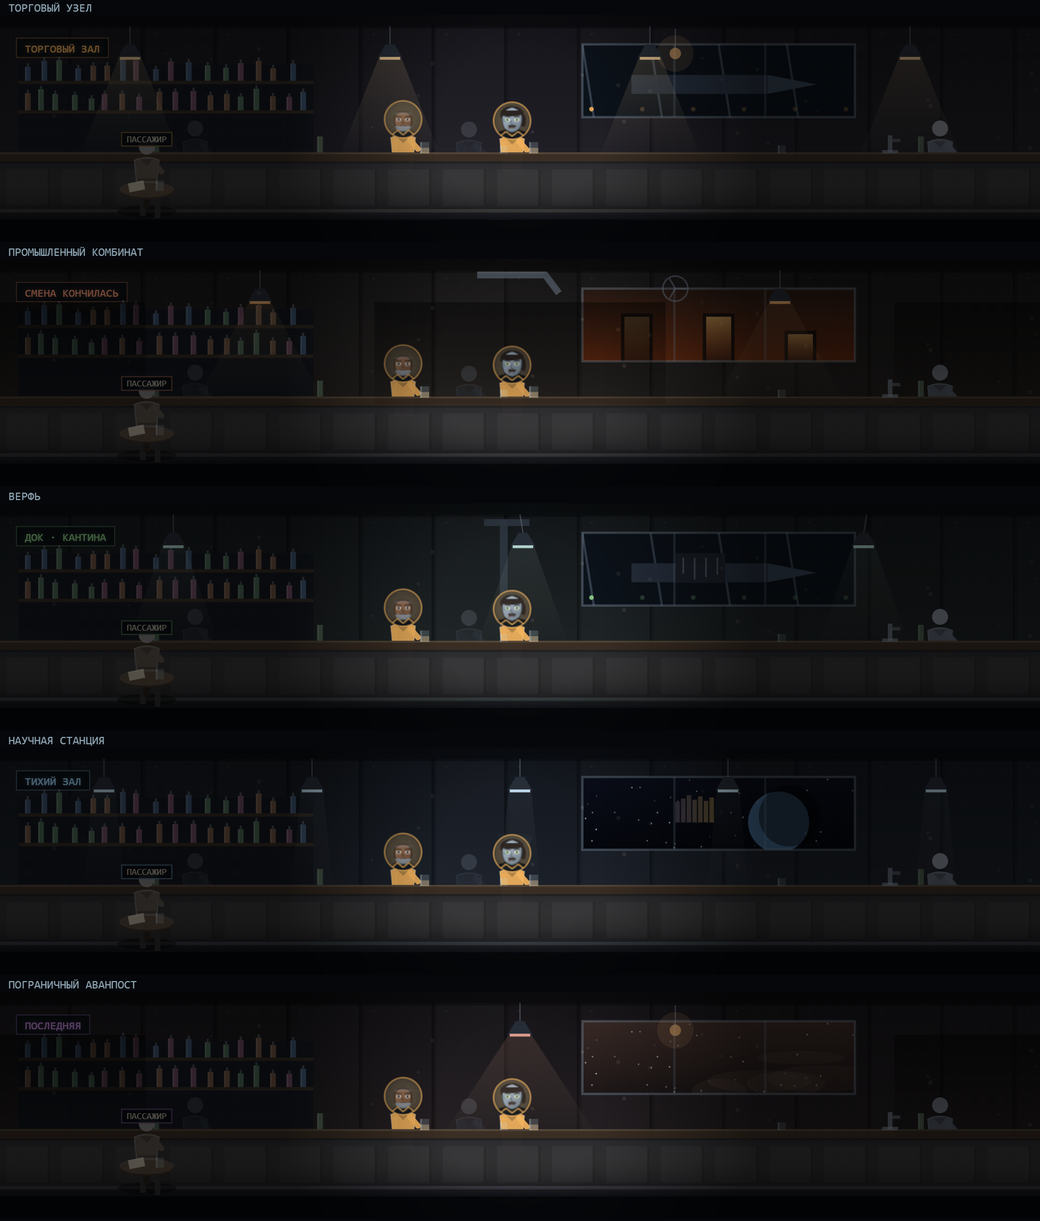
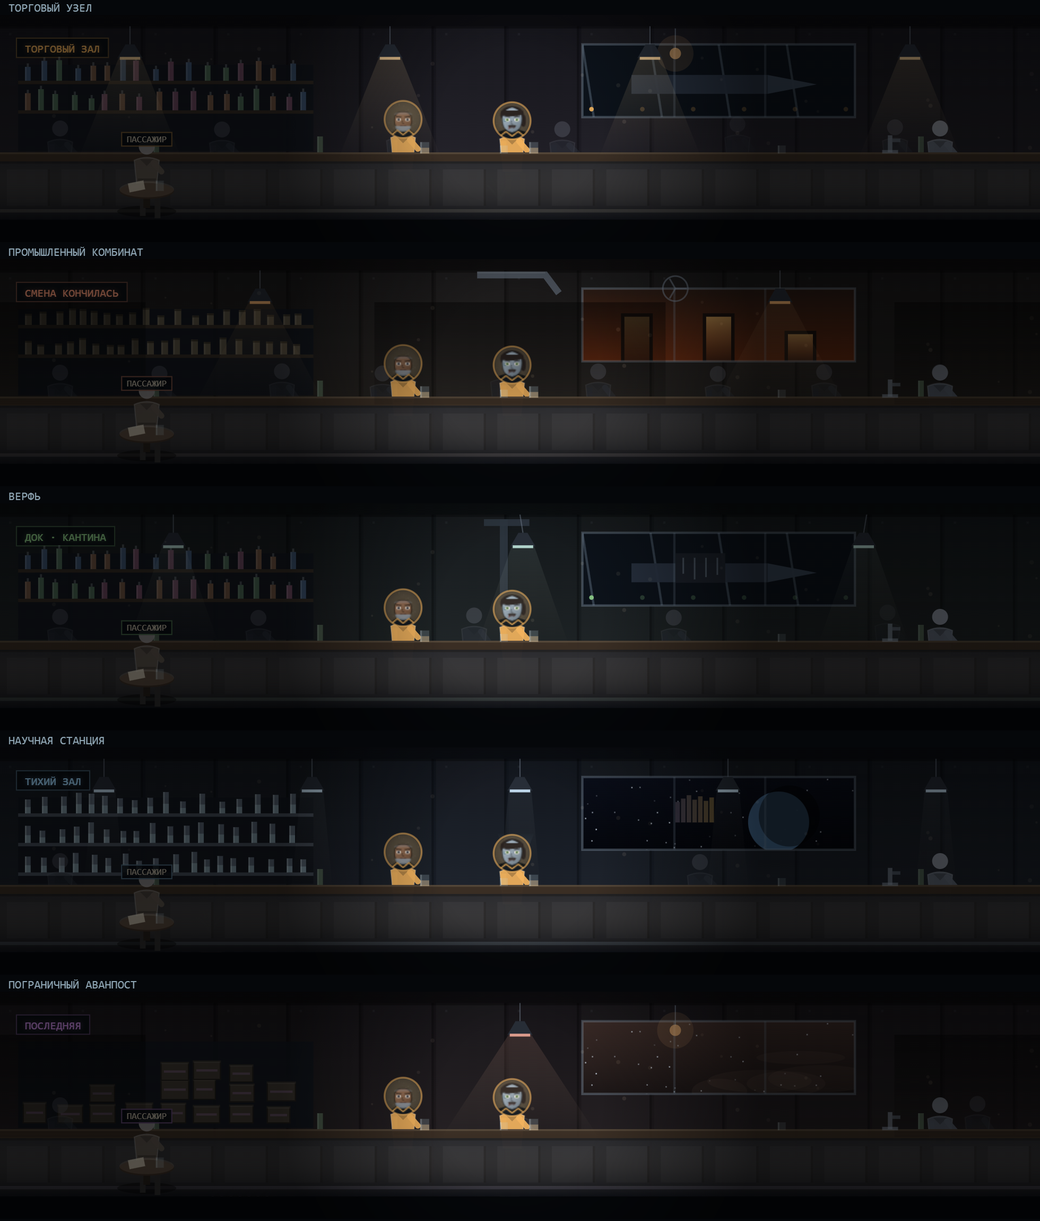
M55: кантины — толпа и то, что стоит за стойкой
Толпа считается, а не украшает: на комбинате смена кончилась и в зале
девятеро, в торговом шестеро, на верфи пятеро, на аванпосте трое врозь,
в научной двое. Кучкуются парами, часть стоит дальше и темнее.

За стойкой теперь то, чем место торгует: бутылки в торговом и на верфи,
одинаковые цеховые фляги на комбинате, стекло и сталь на трёх ровных
полках в научной, а на аванпосте полки нет вовсе — ящики один на другом
с трафаретом, потому что мебель туда не возят.

Открытым по кантинам осталась музыка: очередь просила свет, толпу и
музыку, сделаны первые две. Тесты зелёные (2968).

diff --git a/docs/cantroom.html b/docs/cantroom.html
@@ -25657,27 +25657,77 @@ function cantRoomBody(c,W2,H2,list,sel,hover,deals){
   c.fillStyle=rgba(acc,.85*flick);c.fillText(S.sign,22,33);
   c.shadowColor=rgba(acc,.5*flick);c.shadowBlur=10;c.fillText(S.sign,22,33);c.shadowBlur=0;
   /* ── полка с бутылками за стойкой ── */
+  /* ── что за стойкой ──
+     Стена бутылок стояла всюду, включая научную станцию и аванпост, где ей
+     взяться неоткуда. За стойкой стоит то, чем это место торгует: в торговом
+     зале и на верфи — бутылки, на комбинате — цеховые фляги в два ряда без
+     затей, в научной — колбы и термосы на ровных полках, на аванпосте полки
+     нет вовсе: ящики один на другом, потому что мебель сюда не возят. */
   const shx=16,shw=Math.min(W2*.42,260);
+  const back=(G.st&&G.st.stype)||"trade";
   c.fillStyle="rgba(18,22,30,.9)";c.fillRect(shx,44,shw,cy-52);
-  for(let s=0;s<2;s++){
+  if(back==="outpost"){
+    const RR=rng(seed^0x5C);
+    for(let x=shx+4;x<shx+shw-20;x+=26+RR()*10){
+      const rows=1+((RR()*3)|0);
+      for(let k=0;k<rows;k++){
+        const bw2=20+RR()*6,bh2=15+RR()*4,by=cy-12-k*(bh2+2);
+        c.fillStyle=rgba([64,58,50],.95);c.fillRect(x,by-bh2,bw2,bh2);
+        c.strokeStyle="rgba(0,0,0,.5)";c.lineWidth=1;c.strokeRect(x+.5,by-bh2+.5,bw2-1,bh2-1);
+        c.fillStyle="rgba(255,255,255,.07)";c.fillRect(x,by-bh2,bw2,2);
+        c.fillStyle=rgba(acc,.25);c.fillRect(x+3,by-bh2*.55,bw2-6,2);   // трафарет
+      }
+    }
+  }else for(let s=0;s<(back==="sci"?3:2);s++){
     const sy=58+s*26;
-    c.fillStyle="rgba(52,44,36,.95)";c.fillRect(shx,sy,shw,3);
+    c.fillStyle=back==="sci"?"rgba(70,78,90,.95)":"rgba(52,44,36,.95)";
+    c.fillRect(shx,sy,shw,3);
     const RR=rng(seed+s*77);
-    for(let x=shx+6;x<shx+shw-8;x+=11+RR()*7){
-      const bh=10+RR()*9,hue=[[86,120,96],[130,96,74],[70,96,130],[128,84,110]][(RR()*4)|0];
-      c.fillStyle=rgba(hue,.8);c.fillRect(x,sy-bh,5,bh);
-      c.fillStyle="rgba(255,255,255,.12)";c.fillRect(x,sy-bh,1.4,bh);
-      c.fillStyle="rgba(220,230,240,.25)";c.fillRect(x+1.6,sy-bh-3,1.8,3);
+    for(let x=shx+6;x<shx+shw-8;x+=(back==="indust"?9:11)+RR()*7){
+      const bh=10+RR()*9;
+      if(back==="sci"){                        // колбы и термосы: стекло и сталь
+        c.fillStyle="rgba(150,170,190,.5)";c.fillRect(x,sy-bh,5,bh);
+        c.fillStyle="rgba(190,230,240,.35)";c.fillRect(x,sy-bh*.45,5,bh*.45);
+        c.fillStyle="rgba(230,244,250,.3)";c.fillRect(x,sy-bh,1.3,bh);
+      }else if(back==="indust"){               // фляги: одинаковые, цеховые
+        c.fillStyle="rgba(96,88,70,.9)";c.fillRect(x,sy-bh*.8,6,bh*.8);
+        c.fillStyle="rgba(255,255,255,.1)";c.fillRect(x,sy-bh*.8,1.6,bh*.8);
+        c.fillStyle="rgba(30,26,20,.6)";c.fillRect(x,sy-bh*.8,6,1.6);
+      }else{
+        const hue=[[86,120,96],[130,96,74],[70,96,130],[128,84,110]][(RR()*4)|0];
+        c.fillStyle=rgba(hue,.8);c.fillRect(x,sy-bh,5,bh);
+        c.fillStyle="rgba(255,255,255,.12)";c.fillRect(x,sy-bh,1.4,bh);
+        c.fillStyle="rgba(220,230,240,.25)";c.fillRect(x+1.6,sy-bh-3,1.8,3);
+      }
     }
   }
   /* ── реквизит по типу станции ── */
   cantProps(c,S.props,W2,fy,cy,seed,acc);
-  /* ── посетители на заднем плане: силуэты, чтобы зал не был пустым ── */
-  const back=2+((seed>>3)&1);
-  for(let i=0;i<back;i++){
-    const bx=W2*(.18+i*.26)+((seed>>(i*3))&15);
-    c.globalAlpha=.30;
-    cantFigure(c,bx,cy+16,[54,60,72],G.t*.02+i*2.3,null,0);
+  /* ── толпа ──
+     Во всех пяти залах стояли одни и те же два-три силуэта: зал был «не
+     пустым», но одинаково не пустым везде. Народ — вторая после света примета
+     места, и он считается не для красоты: на комбинате смена кончилась и в
+     зале не протолкнуться, в научной сидят двое и врозь, на аванпосте — трое,
+     и каждый сам по себе. `CROWD` задаёт, сколько их, как плотно они стоят и
+     насколько тесно жмутся друг к другу. */
+  const CROWD={
+    trade:  {n:6, spread:.92, clump:.5},
+    indust: {n:9, spread:.96, clump:.85},
+    yard:   {n:5, spread:.9,  clump:.6},
+    sci:    {n:2, spread:.7,  clump:0},
+    outpost:{n:3, spread:1,   clump:0}
+  };
+  const CR=CROWD[(G.st&&G.st.stype)||"trade"]||CROWD.trade;
+  for(let i=0;i<CR.n;i++){
+    const RR=rng(seed+i*911);
+    /* кучкуются парами, а не выстраиваются по линейке: `clump` сдвигает
+       каждого второго вплотную к соседу — так это и выглядит в кабаке */
+    const base=W2*(.06+(i/Math.max(1,CR.n-1))*CR.spread*.88);
+    const bx=base+((i&1)?-10*CR.clump:0)+RR()*8-4;
+    const far=RR()<.45;                       // кто-то стоит дальше и темнее
+    c.globalAlpha=far?.18:.32;
+    cantFigure(c,bx,cy+16+(far?-4:0),far?[42,48,58]:[54,60,72],
+               G.t*.02+i*2.3,null,0);
     c.globalAlpha=1;
   }
   /* ── бармен и кандидаты рисуются ДО стойки ──

diff --git a/drift.html b/drift.html
@@ -25657,27 +25657,77 @@ function cantRoomBody(c,W2,H2,list,sel,hover,deals){
   c.fillStyle=rgba(acc,.85*flick);c.fillText(S.sign,22,33);
   c.shadowColor=rgba(acc,.5*flick);c.shadowBlur=10;c.fillText(S.sign,22,33);c.shadowBlur=0;
   /* ── полка с бутылками за стойкой ── */
+  /* ── что за стойкой ──
+     Стена бутылок стояла всюду, включая научную станцию и аванпост, где ей
+     взяться неоткуда. За стойкой стоит то, чем это место торгует: в торговом
+     зале и на верфи — бутылки, на комбинате — цеховые фляги в два ряда без
+     затей, в научной — колбы и термосы на ровных полках, на аванпосте полки
+     нет вовсе: ящики один на другом, потому что мебель сюда не возят. */
   const shx=16,shw=Math.min(W2*.42,260);
+  const back=(G.st&&G.st.stype)||"trade";
   c.fillStyle="rgba(18,22,30,.9)";c.fillRect(shx,44,shw,cy-52);
-  for(let s=0;s<2;s++){
+  if(back==="outpost"){
+    const RR=rng(seed^0x5C);
+    for(let x=shx+4;x<shx+shw-20;x+=26+RR()*10){
+      const rows=1+((RR()*3)|0);
+      for(let k=0;k<rows;k++){
+        const bw2=20+RR()*6,bh2=15+RR()*4,by=cy-12-k*(bh2+2);
+        c.fillStyle=rgba([64,58,50],.95);c.fillRect(x,by-bh2,bw2,bh2);
+        c.strokeStyle="rgba(0,0,0,.5)";c.lineWidth=1;c.strokeRect(x+.5,by-bh2+.5,bw2-1,bh2-1);
+        c.fillStyle="rgba(255,255,255,.07)";c.fillRect(x,by-bh2,bw2,2);
+        c.fillStyle=rgba(acc,.25);c.fillRect(x+3,by-bh2*.55,bw2-6,2);   // трафарет
+      }
+    }
+  }else for(let s=0;s<(back==="sci"?3:2);s++){
     const sy=58+s*26;
-    c.fillStyle="rgba(52,44,36,.95)";c.fillRect(shx,sy,shw,3);
+    c.fillStyle=back==="sci"?"rgba(70,78,90,.95)":"rgba(52,44,36,.95)";
+    c.fillRect(shx,sy,shw,3);
     const RR=rng(seed+s*77);
-    for(let x=shx+6;x<shx+shw-8;x+=11+RR()*7){
-      const bh=10+RR()*9,hue=[[86,120,96],[130,96,74],[70,96,130],[128,84,110]][(RR()*4)|0];
-      c.fillStyle=rgba(hue,.8);c.fillRect(x,sy-bh,5,bh);
-      c.fillStyle="rgba(255,255,255,.12)";c.fillRect(x,sy-bh,1.4,bh);
-      c.fillStyle="rgba(220,230,240,.25)";c.fillRect(x+1.6,sy-bh-3,1.8,3);
+    for(let x=shx+6;x<shx+shw-8;x+=(back==="indust"?9:11)+RR()*7){
+      const bh=10+RR()*9;
+      if(back==="sci"){                        // колбы и термосы: стекло и сталь
+        c.fillStyle="rgba(150,170,190,.5)";c.fillRect(x,sy-bh,5,bh);
+        c.fillStyle="rgba(190,230,240,.35)";c.fillRect(x,sy-bh*.45,5,bh*.45);
+        c.fillStyle="rgba(230,244,250,.3)";c.fillRect(x,sy-bh,1.3,bh);
+      }else if(back==="indust"){               // фляги: одинаковые, цеховые
+        c.fillStyle="rgba(96,88,70,.9)";c.fillRect(x,sy-bh*.8,6,bh*.8);
+        c.fillStyle="rgba(255,255,255,.1)";c.fillRect(x,sy-bh*.8,1.6,bh*.8);
+        c.fillStyle="rgba(30,26,20,.6)";c.fillRect(x,sy-bh*.8,6,1.6);
+      }else{
+        const hue=[[86,120,96],[130,96,74],[70,96,130],[128,84,110]][(RR()*4)|0];
+        c.fillStyle=rgba(hue,.8);c.fillRect(x,sy-bh,5,bh);
+        c.fillStyle="rgba(255,255,255,.12)";c.fillRect(x,sy-bh,1.4,bh);
+        c.fillStyle="rgba(220,230,240,.25)";c.fillRect(x+1.6,sy-bh-3,1.8,3);
+      }
     }
   }
   /* ── реквизит по типу станции ── */
   cantProps(c,S.props,W2,fy,cy,seed,acc);
-  /* ── посетители на заднем плане: силуэты, чтобы зал не был пустым ── */
-  const back=2+((seed>>3)&1);
-  for(let i=0;i<back;i++){
-    const bx=W2*(.18+i*.26)+((seed>>(i*3))&15);
-    c.globalAlpha=.30;
-    cantFigure(c,bx,cy+16,[54,60,72],G.t*.02+i*2.3,null,0);
+  /* ── толпа ──
+     Во всех пяти залах стояли одни и те же два-три силуэта: зал был «не
+     пустым», но одинаково не пустым везде. Народ — вторая после света примета
+     места, и он считается не для красоты: на комбинате смена кончилась и в
+     зале не протолкнуться, в научной сидят двое и врозь, на аванпосте — трое,
+     и каждый сам по себе. `CROWD` задаёт, сколько их, как плотно они стоят и
+     насколько тесно жмутся друг к другу. */
+  const CROWD={
+    trade:  {n:6, spread:.92, clump:.5},
+    indust: {n:9, spread:.96, clump:.85},
+    yard:   {n:5, spread:.9,  clump:.6},
+    sci:    {n:2, spread:.7,  clump:0},
+    outpost:{n:3, spread:1,   clump:0}
+  };
+  const CR=CROWD[(G.st&&G.st.stype)||"trade"]||CROWD.trade;
+  for(let i=0;i<CR.n;i++){
+    const RR=rng(seed+i*911);
+    /* кучкуются парами, а не выстраиваются по линейке: `clump` сдвигает
+       каждого второго вплотную к соседу — так это и выглядит в кабаке */
+    const base=W2*(.06+(i/Math.max(1,CR.n-1))*CR.spread*.88);
+    const bx=base+((i&1)?-10*CR.clump:0)+RR()*8-4;
+    const far=RR()<.45;                       // кто-то стоит дальше и темнее
+    c.globalAlpha=far?.18:.32;
+    cantFigure(c,bx,cy+16+(far?-4:0),far?[42,48,58]:[54,60,72],
+               G.t*.02+i*2.3,null,0);
     c.globalAlpha=1;
   }
   /* ── бармен и кандидаты рисуются ДО стойки ──

diff --git a/src/27d-ui-cantina.js b/src/27d-ui-cantina.js
@@ -81,27 +81,77 @@ function cantRoomBody(c,W2,H2,list,sel,hover,deals){
   c.fillStyle=rgba(acc,.85*flick);c.fillText(S.sign,22,33);
   c.shadowColor=rgba(acc,.5*flick);c.shadowBlur=10;c.fillText(S.sign,22,33);c.shadowBlur=0;
   /* ── полка с бутылками за стойкой ── */
+  /* ── что за стойкой ──
+     Стена бутылок стояла всюду, включая научную станцию и аванпост, где ей
+     взяться неоткуда. За стойкой стоит то, чем это место торгует: в торговом
+     зале и на верфи — бутылки, на комбинате — цеховые фляги в два ряда без
+     затей, в научной — колбы и термосы на ровных полках, на аванпосте полки
+     нет вовсе: ящики один на другом, потому что мебель сюда не возят. */
   const shx=16,shw=Math.min(W2*.42,260);
+  const back=(G.st&&G.st.stype)||"trade";
   c.fillStyle="rgba(18,22,30,.9)";c.fillRect(shx,44,shw,cy-52);
-  for(let s=0;s<2;s++){
+  if(back==="outpost"){
+    const RR=rng(seed^0x5C);
+    for(let x=shx+4;x<shx+shw-20;x+=26+RR()*10){
+      const rows=1+((RR()*3)|0);
+      for(let k=0;k<rows;k++){
+        const bw2=20+RR()*6,bh2=15+RR()*4,by=cy-12-k*(bh2+2);
+        c.fillStyle=rgba([64,58,50],.95);c.fillRect(x,by-bh2,bw2,bh2);
+        c.strokeStyle="rgba(0,0,0,.5)";c.lineWidth=1;c.strokeRect(x+.5,by-bh2+.5,bw2-1,bh2-1);
+        c.fillStyle="rgba(255,255,255,.07)";c.fillRect(x,by-bh2,bw2,2);
+        c.fillStyle=rgba(acc,.25);c.fillRect(x+3,by-bh2*.55,bw2-6,2);   // трафарет
+      }
+    }
+  }else for(let s=0;s<(back==="sci"?3:2);s++){
     const sy=58+s*26;
-    c.fillStyle="rgba(52,44,36,.95)";c.fillRect(shx,sy,shw,3);
+    c.fillStyle=back==="sci"?"rgba(70,78,90,.95)":"rgba(52,44,36,.95)";
+    c.fillRect(shx,sy,shw,3);
     const RR=rng(seed+s*77);
-    for(let x=shx+6;x<shx+shw-8;x+=11+RR()*7){
-      const bh=10+RR()*9,hue=[[86,120,96],[130,96,74],[70,96,130],[128,84,110]][(RR()*4)|0];
-      c.fillStyle=rgba(hue,.8);c.fillRect(x,sy-bh,5,bh);
-      c.fillStyle="rgba(255,255,255,.12)";c.fillRect(x,sy-bh,1.4,bh);
-      c.fillStyle="rgba(220,230,240,.25)";c.fillRect(x+1.6,sy-bh-3,1.8,3);
+    for(let x=shx+6;x<shx+shw-8;x+=(back==="indust"?9:11)+RR()*7){
+      const bh=10+RR()*9;
+      if(back==="sci"){                        // колбы и термосы: стекло и сталь
+        c.fillStyle="rgba(150,170,190,.5)";c.fillRect(x,sy-bh,5,bh);
+        c.fillStyle="rgba(190,230,240,.35)";c.fillRect(x,sy-bh*.45,5,bh*.45);
+        c.fillStyle="rgba(230,244,250,.3)";c.fillRect(x,sy-bh,1.3,bh);
+      }else if(back==="indust"){               // фляги: одинаковые, цеховые
+        c.fillStyle="rgba(96,88,70,.9)";c.fillRect(x,sy-bh*.8,6,bh*.8);
+        c.fillStyle="rgba(255,255,255,.1)";c.fillRect(x,sy-bh*.8,1.6,bh*.8);
+        c.fillStyle="rgba(30,26,20,.6)";c.fillRect(x,sy-bh*.8,6,1.6);
+      }else{
+        const hue=[[86,120,96],[130,96,74],[70,96,130],[128,84,110]][(RR()*4)|0];
+        c.fillStyle=rgba(hue,.8);c.fillRect(x,sy-bh,5,bh);
+        c.fillStyle="rgba(255,255,255,.12)";c.fillRect(x,sy-bh,1.4,bh);
+        c.fillStyle="rgba(220,230,240,.25)";c.fillRect(x+1.6,sy-bh-3,1.8,3);
+      }
     }
   }
   /* ── реквизит по типу станции ── */
   cantProps(c,S.props,W2,fy,cy,seed,acc);
-  /* ── посетители на заднем плане: силуэты, чтобы зал не был пустым ── */
-  const back=2+((seed>>3)&1);
-  for(let i=0;i<back;i++){
-    const bx=W2*(.18+i*.26)+((seed>>(i*3))&15);
-    c.globalAlpha=.30;
-    cantFigure(c,bx,cy+16,[54,60,72],G.t*.02+i*2.3,null,0);
+  /* ── толпа ──
+     Во всех пяти залах стояли одни и те же два-три силуэта: зал был «не
+     пустым», но одинаково не пустым везде. Народ — вторая после света примета
+     места, и он считается не для красоты: на комбинате смена кончилась и в
+     зале не протолкнуться, в научной сидят двое и врозь, на аванпосте — трое,
+     и каждый сам по себе. `CROWD` задаёт, сколько их, как плотно они стоят и
+     насколько тесно жмутся друг к другу. */
+  const CROWD={
+    trade:  {n:6, spread:.92, clump:.5},
+    indust: {n:9, spread:.96, clump:.85},
+    yard:   {n:5, spread:.9,  clump:.6},
+    sci:    {n:2, spread:.7,  clump:0},
+    outpost:{n:3, spread:1,   clump:0}
+  };
+  const CR=CROWD[(G.st&&G.st.stype)||"trade"]||CROWD.trade;
+  for(let i=0;i<CR.n;i++){
+    const RR=rng(seed+i*911);
+    /* кучкуются парами, а не выстраиваются по линейке: `clump` сдвигает
+       каждого второго вплотную к соседу — так это и выглядит в кабаке */
+    const base=W2*(.06+(i/Math.max(1,CR.n-1))*CR.spread*.88);
+    const bx=base+((i&1)?-10*CR.clump:0)+RR()*8-4;
+    const far=RR()<.45;                       // кто-то стоит дальше и темнее
+    c.globalAlpha=far?.18:.32;
+    cantFigure(c,bx,cy+16+(far?-4:0),far?[42,48,58]:[54,60,72],
+               G.t*.02+i*2.3,null,0);
     c.globalAlpha=1;
   }
   /* ── бармен и кандидаты рисуются ДО стойки ──

diff --git a/PLAN.md b/PLAN.md
@@ -211,9 +211,19 @@ flora and fauna, a living camera, station modules, weather.
      even; the works has two dirty yellow ones with visible black gaps; the yard's hang on brackets
      and sway; the science hall has five cold narrow ones and no proper cones, because it is a rest
      room and not a bar; the outpost has exactly one, and half the hall is dark.
-   - **still open:** the crowd is the same two figures everywhere — a works hall after a shift
-     should be full and an outpost nearly empty; and the layout never changes (the same counter and
-     the same wall of bottles), where an outpost would have crates and the science hall flasks.
+   - ~~**the same two figures in every hall**~~ — fixed. The crowd is counted, not decorative:
+     nine at the works because the shift has ended, six trading, five at the yard, three at the
+     outpost standing apart, two in the science hall. They clump in pairs rather than lining up,
+     and some stand further back and darker.
+   - ~~**a wall of bottles even on a science station**~~ — fixed. Behind the counter stands what
+     the place actually deals in: bottles at the trade hall and the yard, identical works flasks
+     in two rows at the industrial plant, glass and steel on three even shelves at the science
+     station, and no shelf at all at the outpost — crates stacked one on another with a stencil,
+     because nobody freights furniture out there.
+
+   **Still open:** music (the queue asked for light, crowd and music, and only the first two are
+   done — the generative engine is `10-music`, and the hall could lean it warm or thin); and the
+   counter itself is the same length and shape everywhere.
 4. **New world types:** crystalline, jungle, metallic, ruin. The machinery is already ready to
    take them — `TYPES` (02-world), `PROFILE`, `RELIEF_MIX` (07-planet), `GEO_TPL` (18b),
    `WEATHER_BY_TYPE` (19d), `POI_KINDS.on` (20a), flora and fauna leanings (20-life).

diff --git a/docs/INDEX.md b/docs/INDEX.md
@@ -177,16 +177,16 @@ camOffset                    src/19c-light.js:76
 camStep                      src/19c-light.js:62
 canPay                       src/21a-mode-base.js:43
 CANT_STYLE                   src/27d-ui-cantina.js:15
-cantFigure                   src/27d-ui-cantina.js:251
+cantFigure                   src/27d-ui-cantina.js:301
 cantinaPool                  src/12c-mgr-core.js:258
 cantinaScene                 src/27c-ui-hq.js:125
-cantProps                    src/27d-ui-cantina.js:351
+cantProps                    src/27d-ui-cantina.js:401
 cantRoomBody                 src/27d-ui-cantina.js:45
-cantSeats                    src/27d-ui-cantina.js:243
+cantSeats                    src/27d-ui-cantina.js:293
 cantSel                      src/27c-ui-hq.js:124
 cantStyle                    src/27d-ui-cantina.js:27
-cantTables                   src/27d-ui-cantina.js:439
-cantView                     src/27d-ui-cantina.js:292
+cantTables                   src/27d-ui-cantina.js:489
+cantView                     src/27d-ui-cantina.js:342
 capOf                        src/05-parts.js:101
 capUsed                      src/05-parts.js:203
 CAVE_W                       src/22-mode-cave.js:5
@@ -1548,7 +1548,7 @@ ZAP_COOL                     src/23-mode-dig.js:212
 ## src/27c-ui-hq.js · 28 КБ
   · ШТАБ и кантина:1
 
-## src/27d-ui-cantina.js · 27 КБ
+## src/27d-ui-cantina.js · 31 КБ
   · кантина: помещение, а не список:1
 
 ## src/27e-ui-home.js · 43 КБ
